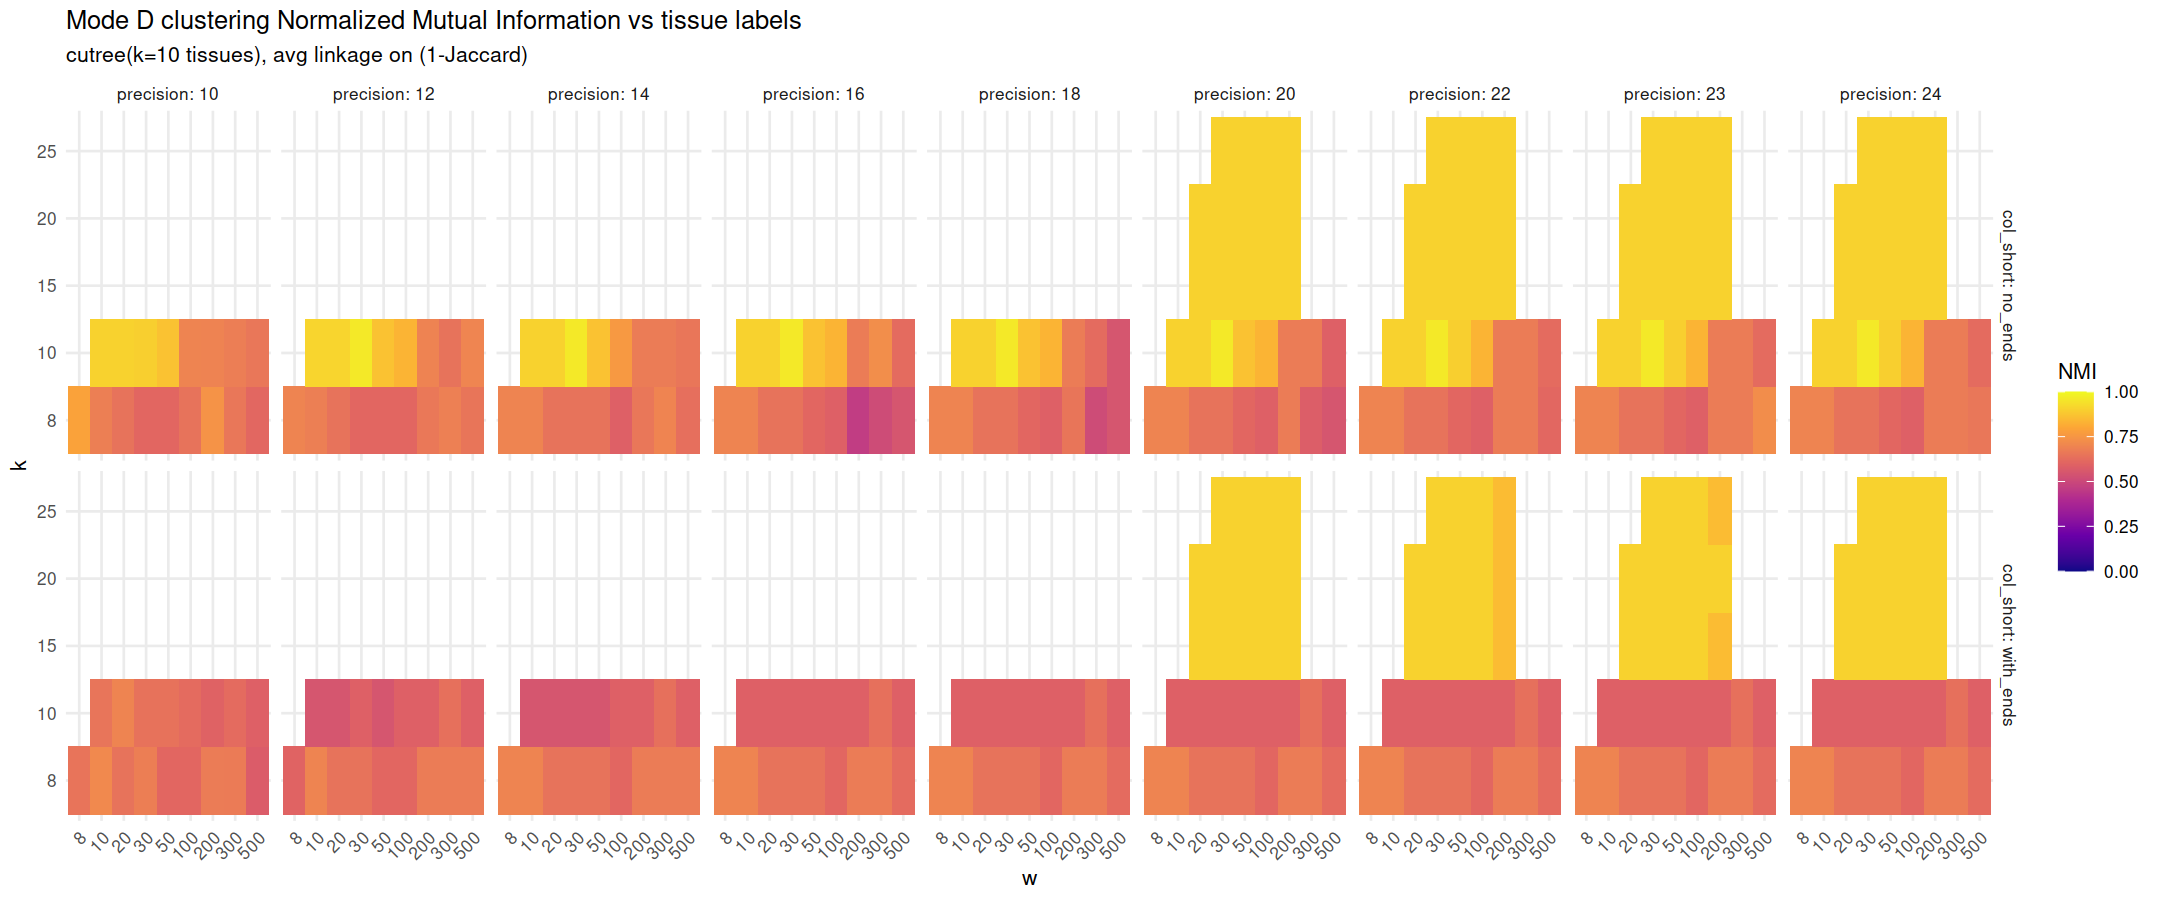
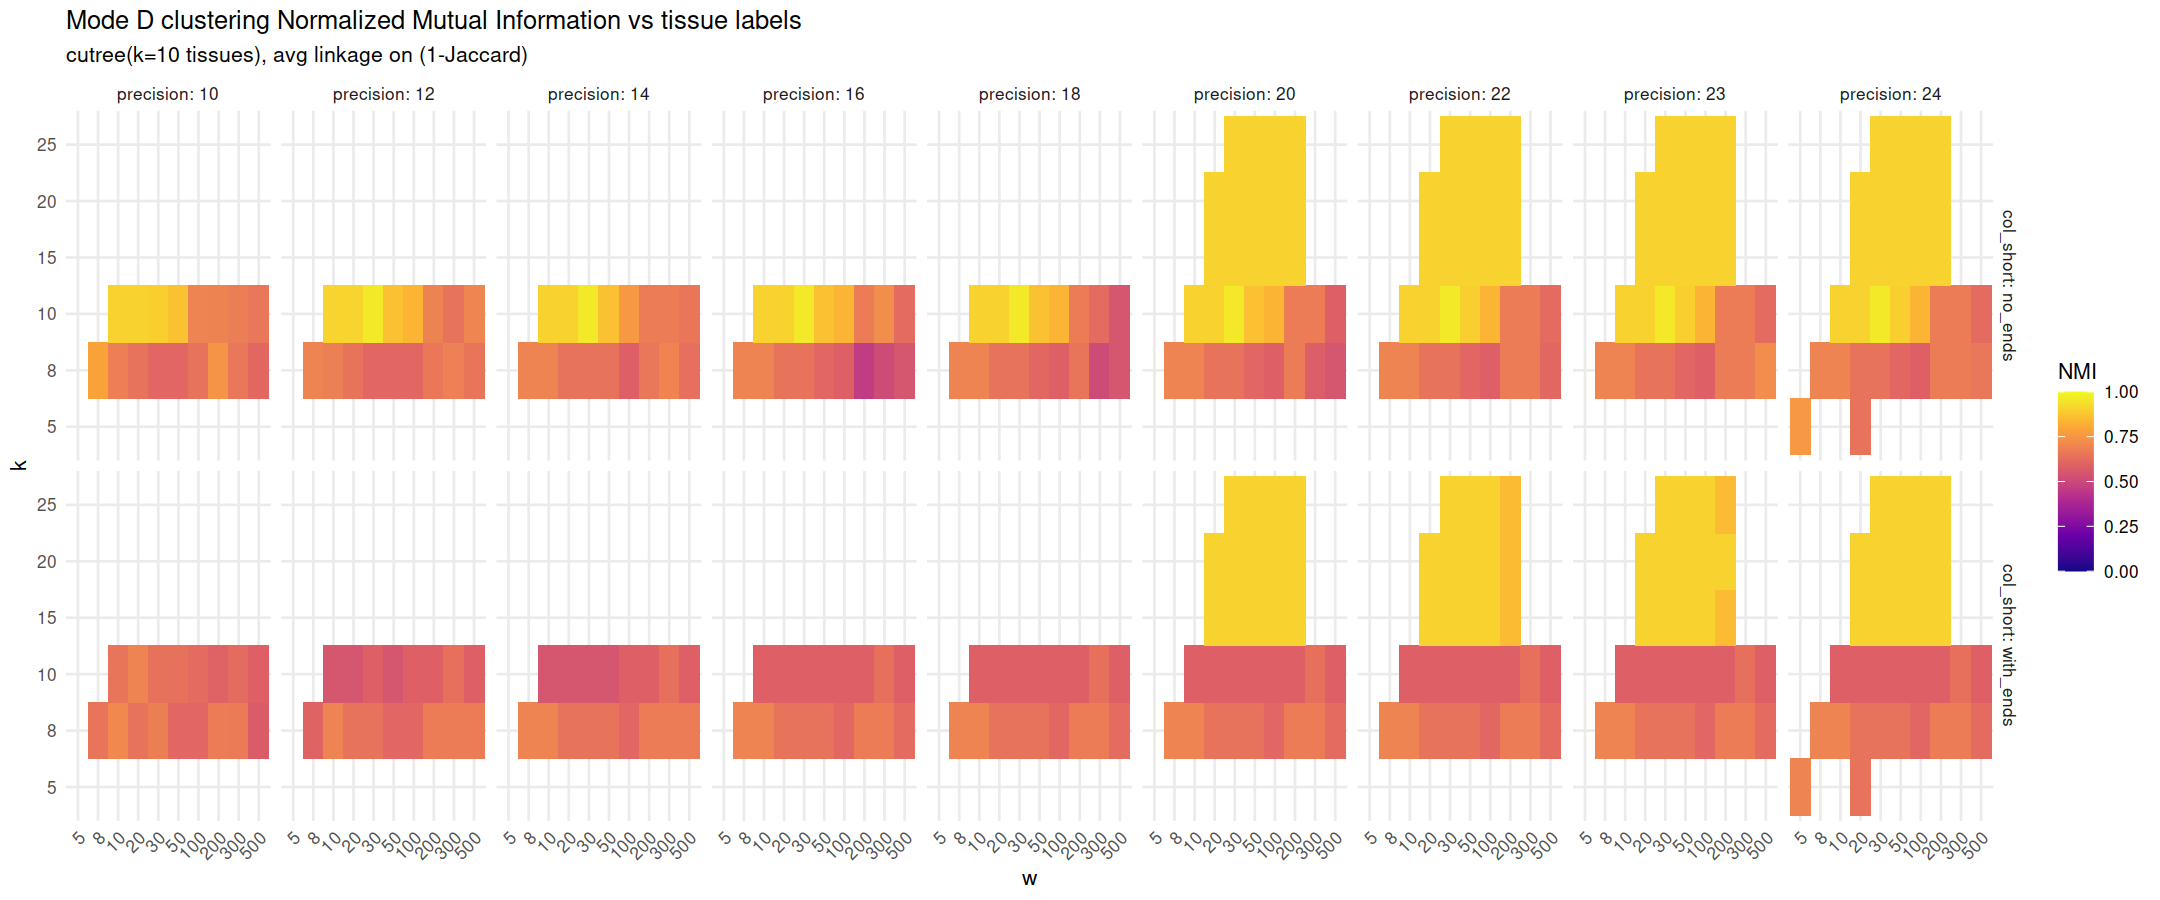
Add docs-local Fig 6 tradeoff; tidy Fig 4; fill-sweep script
Fig 6 (sequence-mode numerical-agreement vs ARI tradeoff) gets a docs/scripts
generator reading docs/data/mode_d_summary.csv into docs/figures/, matching
the paper-figure pipeline; paper_outline repoints to the docs copy. The docs
version uses p=24 only, colours by k-mer size, sizes points by minimizer
window (discrete scale), alpha 0.5, title "Sequence Mode", and moves the
subtitle to a caption. Best-cell labels are separated/right-aligned so the
overlapping k=20/k=25 w=100 labels no longer clip.

Fig 4 (mode_d_lines_p24): drop the subtitle and filter out the lone k=5
(w=20) config that rendered as a stray "NA" series.

Add sbatch_fill_highk_w.sh — the scoped sweep (k in {15,20,25}, w in
{300,500}, p in {20,22,23,24}) that fills the missing high-k/high-w cells so
Fig 4's high-k lines span the full window range (SLURM job in flight).

Also refresh the regenerated maurano_dhs_validation experiment figures.

diff --git a/docs/paper_outline.md b/docs/paper_outline.md
@@ -107,7 +107,7 @@ At the ARI-best config, sequence mode's predicted Jaccards sit on the y = x diag
 
 **Fig 6:** The headline methodological point: **best-Pearson cell ≠ best-ARI cell**. Pearson-best (large-k, large-w) clusters at ARI ≈ 0.69; ARI-best (k=10, w=30) at Pearson ≈ 0.946. Numerical perfection and clustering quality are non-coincident knobs.
 
-![Fig 6 — sequence mode Pearson vs ARI tradeoff](../experiments/maurano_dhs_validation/figures/mode_d_metric_tradeoff.png)
+![Fig 6 — sequence mode Pearson vs ARI tradeoff](figures/mode_d_metric_tradeoff.png)
 
 (The per-k violin view of Pearson r and ARI — which makes the "tunable clustering only at k = 10, fixed partition at large k" contrast explicit — is **Fig S4**, in the Supplementary figures section.)
 
@@ -259,7 +259,7 @@ hammock provides a fast, sketch-based alternative to `bedtools jaccard`. On real
 | 3 | `docs/figures/mode_d_bedtools_vs_modeB_scatter.png` (data: `docs/data/mode_d_summary.csv`, script: `docs/scripts/mode_d_bedtools_vs_modeB_scatter.R`) | per-config sequence mode r vs bedtools vs interval mode (y=x) |
 | 4 | `docs/figures/mode_d_lines_p24.png` (data: `docs/data/mode_d_summary.csv`, script: `docs/scripts/mode_d_lines.R`) | sequence mode Pearson ridge vs ARI peak at p = 24 |
 | 5 | `maurano_dhs_validation/figures/mode_d_best_dendrogram.png` + `bedtools_dendrogram.png` | tissue recovery (a + b panels) |
-| 6 | `maurano_dhs_validation/figures/mode_d_metric_tradeoff.png` | Pearson-best ≠ ARI-best |
+| 6 | `docs/figures/mode_d_metric_tradeoff.png` (data: `docs/data/mode_d_summary.csv`, script: `docs/scripts/mode_d_metric_tradeoff.R`) | Pearson-best ≠ ARI-best |
 | 7 | `ref-comparison/figures/cross_ref_dendrogram_k15_w15.png` | within-tissue clades across refs (headline cell) |
 | 8 | `ref-comparison/figures/sweep_effect_size_broad.png` | cross-ref effect-size heatmap, broad |
 | 9 | *(hidden — pending rework; PNG on disk: `modeD_flanking/figures/maurano_delta_r_vs_w.png`)* | flanking column choice on real data |
